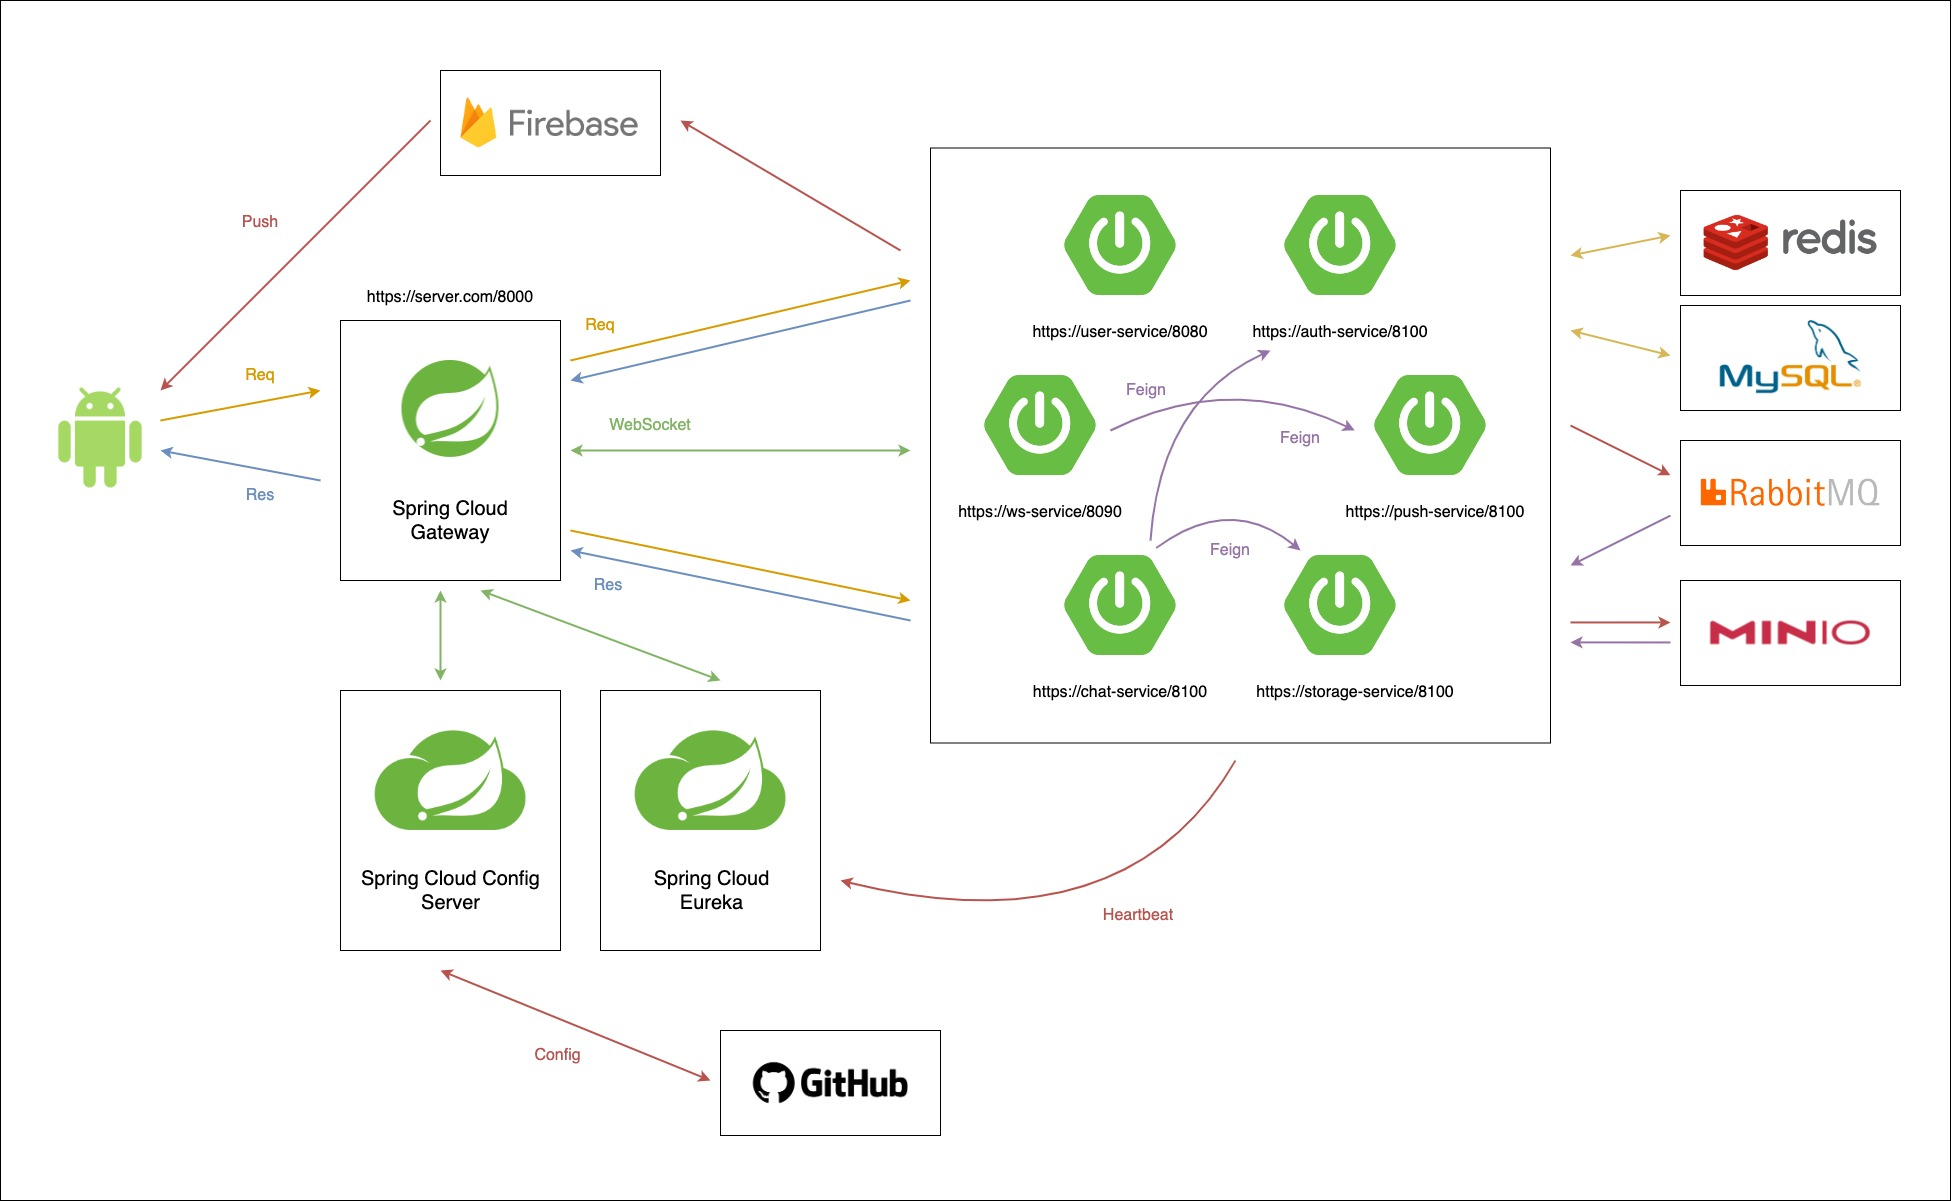
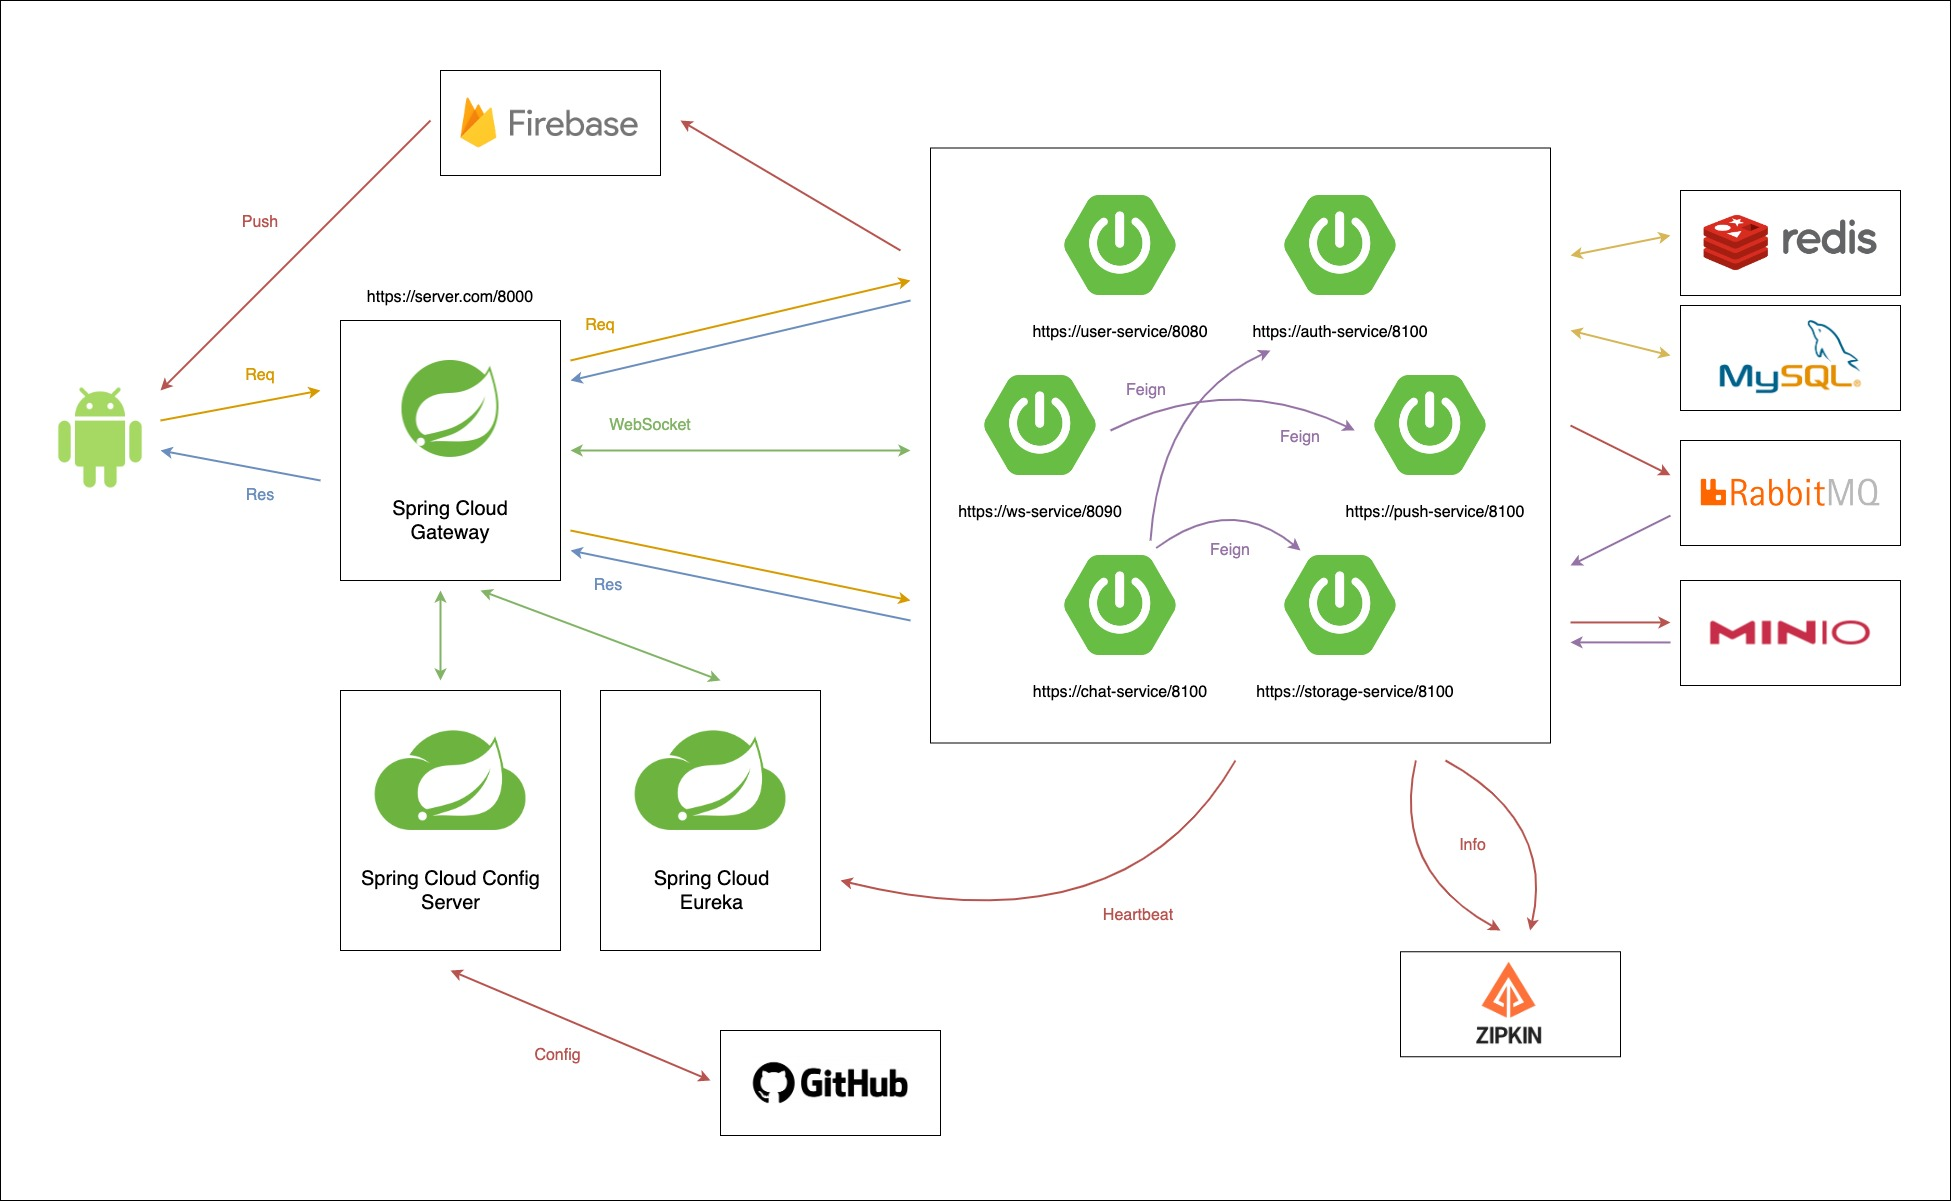
Docs: "백엔드 문서 및 이미지 수정"
백엔드 문서 수정 및 이미지 수정
- 백엔드 문서 상세 내용 추가
- 백엔드 구조 이미지에 zipkin 추가

Resolves: N/A
Ref: N/A
Related to: N/A

diff --git a/backend/README.md b/backend/README.md
@@ -11,6 +11,7 @@
 - [Spring Cloud Config](https://docs.spring.io/spring-cloud-config/docs/current/reference/html/)
 - [Spring Cloud OpenFeign](https://cloud.spring.io/spring-cloud-openfeign/reference/html)
 - [Spring Cloud Bus](https://docs.spring.io/spring-cloud-bus/docs/current/reference/html/)
+- [Spring Cloud Sleuth](https://cloud.spring.io/spring-cloud-sleuth/reference/html/)
 - [Spring Security](https://spring.io/projects/spring-security)
 - [Spring Data JPA](https://spring.io/projects/spring-data-jpa)
 - [Spring Querydsl](http://querydsl.com/)
@@ -36,22 +37,64 @@
 ## Project Architecture
 
 ### MSA (Micro Service Architecture)
-
-모두의 메신저 프로젝트는 마이크로 서비스 아키텍처를 기반으로 하고 있습니다.  
+초기의 모두의 메시저 서비스는 모놀리식 구조를 가지고 있었습니다.  
+모놀리식 구조의 경우 어떠한 장애로 인해 서비스가 다운되는 경우 전체 서비스에 대한 이용이 불가능 하다는 단점이 있었습니다.  
+예를 들어 유저에 관련된 요청 로직에 장애가 생겨 서버가 다운되는 경우 채팅과 같은 기능 이용을 불가능 했습니다.  
+서비스를 만들면서 만일 유저 관련 서비스에 장애가 생기더라도 채팅을 수행할 수 있도록 하고 싶었습니다.  
+또한 장애에 대한 파악이 용이하과, 신속한 대응이 가능하도록 하여 사용자에게 좋은 경험을 남기는 서비스를 만들고 싶었습니다.  
+그래서 바로 마이크로 서비스 아키텍쳐 구조를 선택하게 되었습니다.   
 
 ## Project Structure
 
 ### Spring API Gateway
-스프링 api gateway 를 통해 jwt 토큰 인증 과정을 가장 앞단에서 처리  
-jwt 검증을 통해 인가된 사용자는 resource로의 접근이 가능  
+모두의 메신저 서비스는 jwt 토큰을 통해 사용자 인증을 수행하고 있습니다.  
+리소스에 접근은 사전에 발급된 토큰이 유효한 경우에만 접근이 가능하도록 합니다.  
+또한 토큰의 경우 유효 기간이 존재해 만료된 토큰은 재발급을 통해 재인증을 수행하게 됩니다.  
+모놀리식 구조에서는 한번의 인증으로 리소스에 접근이 가능했습니다.  
+하지만 MSA 구조에서는 다수의 서비스에 접근 하기 위해서는 다수의 인증을 수행해야 했습니다.  
+각각의 서비스들은 모두 동일한 인증 기능을 가지고 있어야 했고 중복되는 요청으로 트래픽이 증가할 것으로 보였습니다.  
+
+이러한 문제를 해결하고자, spring api-gateway를 사용하였습니다.  
+spring api-gateway를 서비스의 가장 앞단에서 인증에 대한 기능을 수행합니다.  
+인증이 완료된 이후에는 요청을 각각의 서비스로 로드 밸런싱 하는 기능을 가지고 있습니다.  
+인증되지 않은 요청으 gateway에서 처리 하여 클라이언트에서 서비스의 진입점을 하나의 통로를 지나도록 하였습니다.  
+외부로 노출되는 포트가 하나이므로 클라이언트 입장에서는 gateway에 대한 정보만을 가지고 리소스 접근이 가능합니다.  
+gateway 뒤에 위치한 서비스에 대한 정보를 알고 있다고 하더라도 외부로 노출되지 않아 정상 응답을 받을 수 없습니다.  
+
+서비스를 운영하다보면 인증을 위한 데이터가 없는 상태에서 발생하는 요청도 존재하게 됩니다.  
+인증이 필요한 경우의 요청은 필터를 통해 인증을 수행하게 됩니다.  
+하지만 인증을 위한 데이터가 없는 회원가입과 같은 요청등은 인증을 수행하지 않고 요청을 수행하도록 하였습니다.  
 
 ### Spring Eureka
+모놀리식 구조에서는 하나의 서비스에서 사용자 인증 부터 리소스 접근에 대한 모든 요청을 처리 하였습니다.  
+예를 들어, 회원 가입-로그인-서비스 이용이 하나의 서버에서 이뤄지다 보니 구조가 단순하였습니다.  
+하지만 MSA 구조에서는 하나의 요청을 처리하기 위해 내부의 다른 서비스로의 접근이 이뤄지는 경우가 많았습니다.  
+또한 클라이언트가 하나의 서비스에만 접근 하는것이 아닌 다수의 서비스에 서로 다른 요청을 전송하고 있었습니다.  
+
+클라이언트 또는 내부에서 서로 다른 서비스에 접근 하기 위해서는 접근 하려는 서비스에 대한 정보를 필요로 하였습니다.  
+하지만 각각의 서비스가 서로 다른 포트를 점유하고 있고, 서로 각각의 서비스의 포트를 모두 알고 있어야 했습니다.  
+또한 특정 서비스의 부하가 생기는 경우 해결하기 위해 동일한 기능을 하는 서비스를 일시적으로 다수 띄우는 경우도 존재합니다.  
+이런 경우 변경되는 서비스에 대한 정보를 모두 가지고 있을 수 없는데 기존의 방법으로는 이를 해결할수 없었습니다.   
+
+이러한 문제를 해결하고자, spring eureka를 사용하였습니다.  
+각각의 서비스는 discovery client 로써 eureka server로 자신의 정보를 주기적으로 요청을 전송합니다.  
+이런경우 서비스를 운영하면서 동적으로 변경되는 서비스의 구성을 모두 알고 있을 필요가 없었습니다.  
+모든 정보는 eureka server가 가지고 있으므로, eureka 서버에 대한 정보만을 가지고 있으면 되기 때문입니다.  
+
+eureka server는 등록된 서비스로를 알고 있다해도 부하 부산을 위해서는 로드 밸런싱 기능을 필요로 했습니다.  
+로드 밸런싱 기능은 spring api-gateway를 통해 처리하도록 하였습니다.  
+클라이언트는 서비스의 가장 앞단에 있는 spring api-gateway로 요청을 전송합니다.  
+gateway는 받은 요청의 서비스에 대한 정보를 eureka로 부터 전달 받고 요청에 해당되는 서비스로 요청을 전송하게 됩니다.  
 
 ### Spring config-server
 
 ### rabbit-mq 를 이용한 메시징 처리
 
 ## Dev Diary
+
+### 로그인과 사용자 인증 개선 과정
+
+모두의 메신저는 oauth를 통한 소셜 로그인 기능을 지원하고 jwt 토큰을 통해 사용자 인증을 하고 있습니다.  
 
 ### 채팅 서버
 채팅 기능은 메인 기능 이므로, 가장 많은 부하가 걸린다. 이를 개선하기 위해 여러 컨테이너를 띄워 문제를 해결하려고 했다.  
